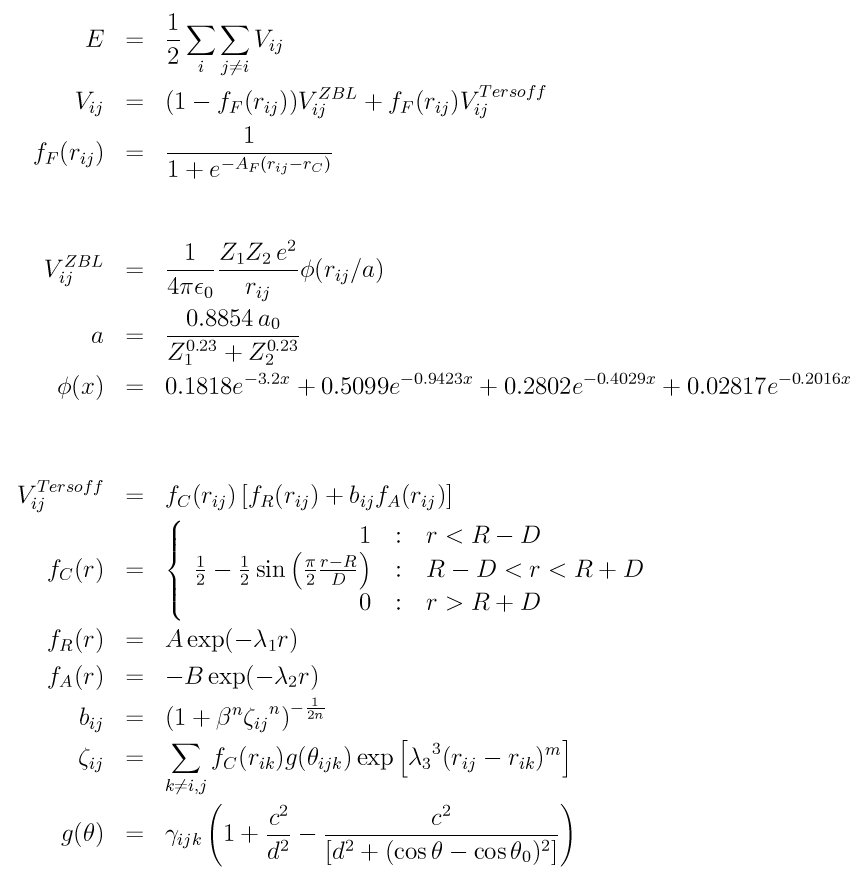
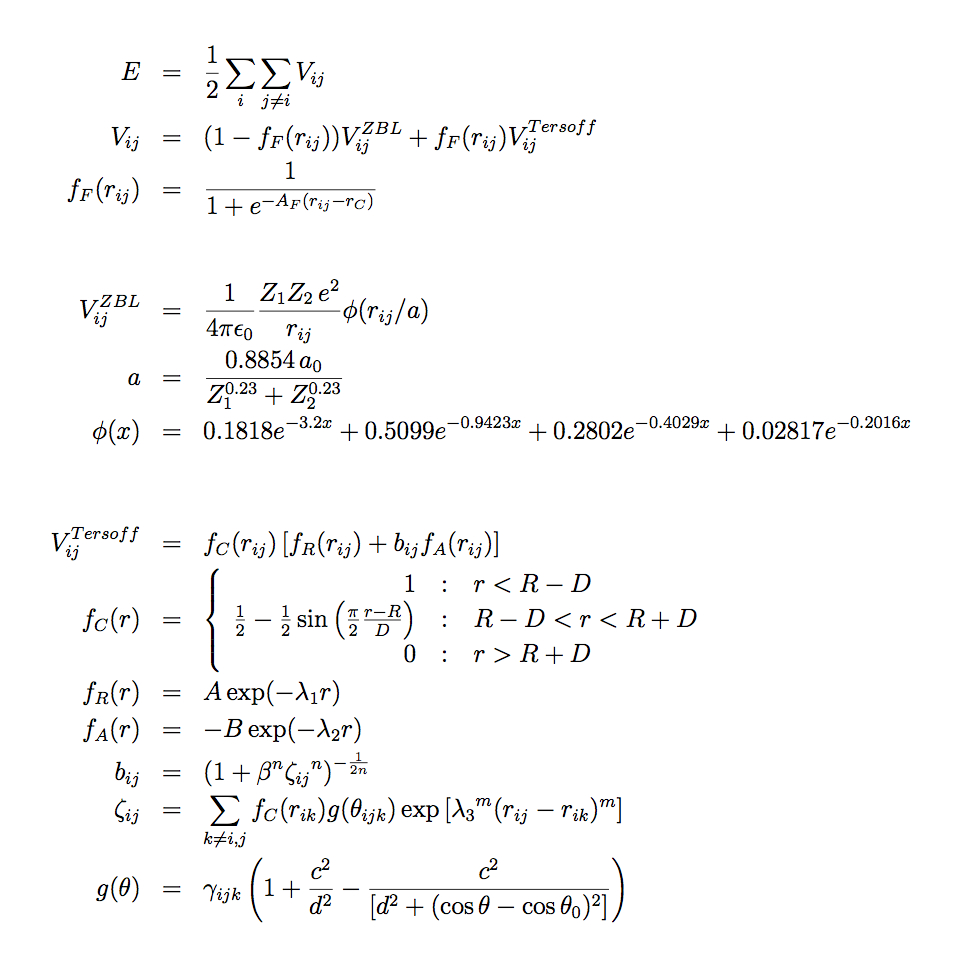
Made consistent with pair_tersoff doc page
git-svn-id: svn://svn.icms.temple.edu/lammps-ro/trunk@11731 f3b2605a-c512-4ea7-a41b-209d697bcdaa

diff --git a/doc/pair_tersoff_zbl.html b/doc/pair_tersoff_zbl.html
@@ -136,13 +136,19 @@ three-body parameters for SiCSi and SiSiC entries will not, in
 general, be the same.  The parameters used for the two-body
 interaction come from the entry where the 2nd element is repeated.
 Thus the two-body parameters for Si interacting with C, comes from the
-SiCC entry.  By symmetry, the twobody parameters in the SiCC and CSiSi
-entries should thus be the same.  The parameters used for a particular
+SiCC entry.  
+</P>
+<P>The parameters used for a particular
 three-body interaction come from the entry with the corresponding
 three elements.  The parameters used only for two-body interactions
 (n, beta, lambda2, B, lambda1, and A) in entries whose 2nd and 3rd
 element are different (e.g. SiCSi) are not used for anything and can
 be set to 0.0 if desired.
+</P>
+<P>Note that the twobody parameters in entries such as SiCC and CSiSi 
+are often the same, due to the common use of symmetric mixing rules, 
+but this is not always the case. For example, the beta and n parameters in 
+Tersoff_2 <A HREF = "#Tersoff_2">(Tersoff_2)</A> are not symmetric.
 </P>
 <P>We chose the above form so as to enable users to define all commonly
 used variants of the Tersoff portion of the potential.  In particular,
@@ -154,14 +160,13 @@ different but equivalent form for alloys, which we will refer to as
 Tersoff_2 potential <A HREF = "#Tersoff_2">(Tersoff_2)</A>.
 </P>
 <P>LAMMPS parameter values for Tersoff_2 can be obtained as follows:
-gamma = 1, just as for Tersoff_1, but now lambda3 = 0 and the value of
+gamma = omega_ijk, lambda3 = 0 and the value of
 m has no effect.  The parameters for species i and j can be calculated
 using the Tersoff_2 mixing rules:
 </P>
 <CENTER><IMG SRC = "Eqs/pair_tersoff_2.jpg">
 </CENTER>
-<P>Values not shown are determined by the first atom type.  Finally, the
-Tersoff_2 parameters R and S must be converted to the LAMMPS
+<P>Tersoff_2 parameters R and S must be converted to the LAMMPS
 parameters R and D (R is different in both forms), using the following
 relations: R=(R'+S')/2 and D=(S'-R')/2, where the primes indicate the
 Tersoff_2 parameters.
@@ -260,11 +265,11 @@ of Ions in Matter' Vol 1, 1985, Pergamon Press.
 </P>
 <A NAME = "Albe"></A>
 
-<P><B>(Albe)</B> J. Nord, K. Albe, P. Erhartand K. Nordlund, J. Phys.:
+<P><B>(Albe)</B> J. Nord, K. Albe, P. Erhart and K. Nordlund, J. Phys.:
 Condens. Matter, 15, 5649(2003).
 </P>
 <A NAME = "Tersoff_2"></A>
 
-<P><B>(Tersoff_2)</B> J. Tersoff, Phys Rev B, 39, 5566 (1989)
+<P><B>(Tersoff_2)</B> J. Tersoff, Phys Rev B, 39, 5566 (1989); errata (PRB 41, 3248)
 </P>
 </HTML>

diff --git a/doc/Eqs/pair_tersoff_zbl.tex b/doc/Eqs/pair_tersoff_zbl.tex
@@ -24,7 +24,7 @@ f_F(r_{ij}) & = & \frac{1}{1 + e^{-A_F(r_{ij} - r_C)}}\\
   f_A(r) & = & -B \exp (-\lambda_2 r) \\
   b_{ij} & = & \left( 1 + \beta^n {\zeta_{ij}}^n \right)^{-\frac{1}{2n}} \\
   \zeta_{ij} & = & \sum_{k \neq i,j} f_C(r_{ik}) g(\theta_{ijk})
-                   \exp \left[ {\lambda_3}^3 (r_{ij} - r_{ik})^m \right] \\
+                   \exp \left[ {\lambda_3}^m (r_{ij} - r_{ik})^m \right] \\
   g(\theta) & = & \gamma_{ijk} \left( 1 + \frac{c^2}{d^2} - 
                   \frac{c^2}{\left[ d^2 + 
 		  (\cos \theta - \cos \theta_0)^2\right]} \right)